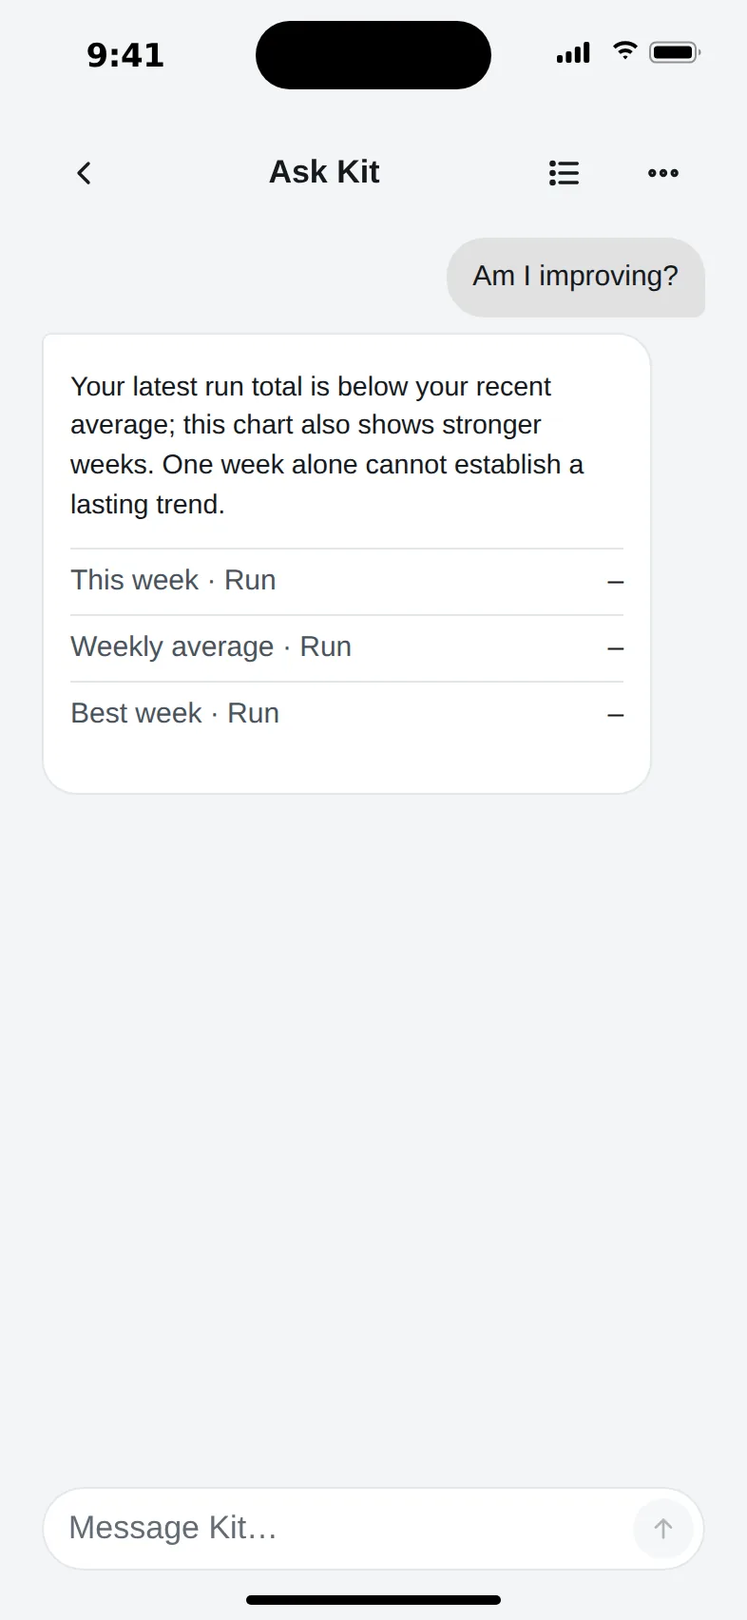
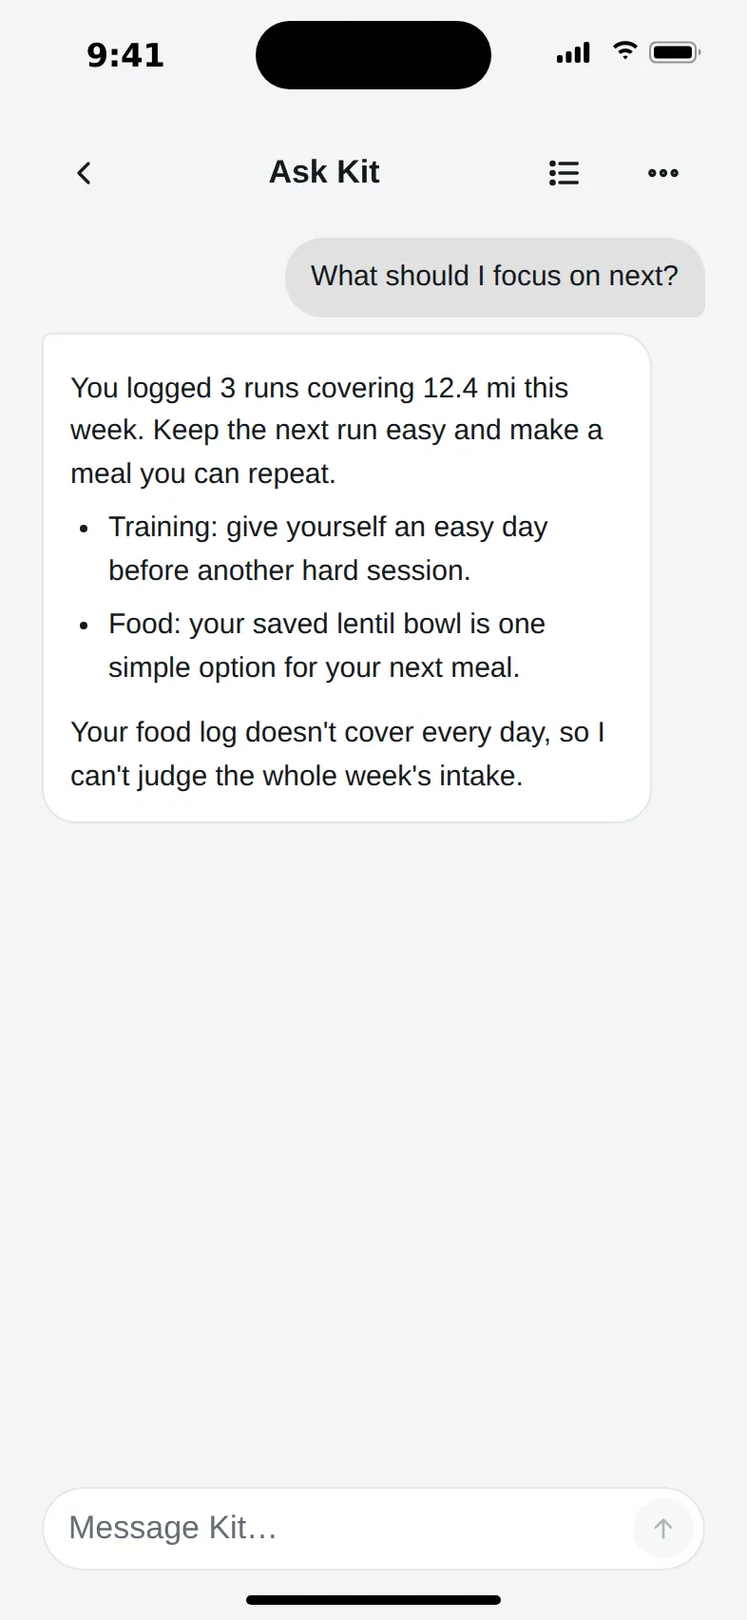
Introduce Meet Kit with current app conversation captures

Changed region(s): [[0.0916, 0.2177, 0.8244, 0.4977], [0.3969, 0.1555, 0.7634, 0.1866], [0.7939, 0.1555, 0.8855, 0.1866]]

diff --git a/site/index.html b/site/index.html
@@ -23,7 +23,7 @@
 <link rel="preconnect" href="https://fonts.gstatic.com" crossorigin>
 <link rel="stylesheet" href="https://fonts.googleapis.com/css2?family=Figtree:wght@400;500;600&family=JetBrains+Mono:wght@400;500&display=swap">
 <link rel="stylesheet" href="assets/theme.css?v=9">
-<link rel="stylesheet" href="assets/site.css?v=38">
+<link rel="stylesheet" href="assets/site.css?v=39">
 </head>
 <body class="website-tour home-page">
 <a class="skip-link" href="#main">Skip to content</a>
@@ -59,7 +59,21 @@
 <article class="home-proof-card" id="home-food"><div class="home-proof-copy"><h3>Log a meal in a sentence.</h3><p>Tell Kit what you ate. Review the matched foods, portions and estimate, then choose Add to log.</p></div><div class="home-proof-phone"><div class="phone-frame" data-app-capture="kit-food-review" role="group" aria-label="Fictional Kit chat review showing two foods, editable portions, an estimate and Add to log"><picture><source srcset="assets/shots/dark-home-food-review.webp" media="(prefers-color-scheme: dark)"><img src="assets/shots/light-home-food-review.webp" alt="Fictional Kit food chat review with Toast and Butter, portion controls, a 55 kcal summary and Add to log." width="786" height="1704" loading="lazy"></picture></div></div></article>
 <article class="home-proof-card" id="home-activity"><div class="home-proof-copy"><span class="eyebrow">Training</span><h3>Every run, ride and lift, with the details.</h3><p>See a route and splits for a run or ride, or set-by-set history and records for a lift.</p></div><div class="home-proof-phone"><div class="phone-frame"><picture><source srcset="assets/shots/dark-activity-detail-1x.webp 1x, assets/shots/dark-activity-detail.webp 2x" media="(prefers-color-scheme: dark)"><img src="assets/shots/light-activity-detail.webp" srcset="assets/shots/light-activity-detail-1x.webp 1x, assets/shots/light-activity-detail.webp 2x" alt="Fictional Activity detail showing a route map, run stats and splits." width="786" height="1704" loading="lazy"></picture></div></div></article>
 </div></div></section>
-<section class="kit-week-demo" id="kit-week-demo" aria-labelledby="progress-title"><div class="wrap kit-week-grid"><div class="kit-week-copy"><span class="eyebrow">Kit insights</span><h2 id="progress-title">Ask Kit about your week.</h2><p>Ask one question about your training week.</p></div><div class="kit-week-visual" role="group" aria-label="Scripted Kit weekly insight shown inside an iPhone screen"><div class="phone-frame phone-frame--demo phone-frame--kit-week phone-frame--kit-insight" data-demo="kit-insight" data-demo-state="ready"><div class="phone-screen kit-phone-viewport"><div class="kit-phone-canvas" aria-hidden="true"><div class="kit-phone-screen"><div class="kit-phone-status"><span>9:41</span><span class="kit-phone-status-icons" aria-hidden="true"><svg viewBox="0 0 22 14"><path d="M2 12V9m5 3V7m5 5V5m5 7V2"/></svg><svg viewBox="0 0 18 14"><path d="M2 5.5a10 10 0 0 1 14 0M5 8.5a6 6 0 0 1 8 0M8 11.5a2 2 0 0 1 2 0"/></svg><svg viewBox="0 0 26 14"><rect x="1" y="1" width="21" height="12" rx="3"/><path d="M24 5v4"/><rect x="3" y="3" width="15" height="8" rx="1.5"/></svg></span></div><div class="kit-phone-content"><p class="kit-week-question" data-week-question data-full-text="Am I improving?"></p><span class="kit-week-typing thread-typing" data-week-typing aria-hidden="true"><span></span><span></span><span></span></span><div class="kit-week-answer" aria-hidden="true"><p data-week-answer data-full-text="Yes, mostly: your completed-week running trend is up over the last 8 weeks. This week is still in progress at 4.8 mi."></p><svg class="kit-week-chart" data-week-chart viewBox="0 0 320 100" role="img" aria-label="Completed weekly run totals rise across 8 weeks; the dashed line marks the 20.6 mi average. This week is in progress at 4.8 mi."><line class="kit-week-chart-average" x1="8" y1="51" x2="312" y2="51"/><path class="kit-week-chart-line" d="M8 82 C23 78 34 72 50 70 S76 66 92 63 S118 59 134 58 S160 54 176 53 S202 47 218 43 S244 28 260 21 S292 19 312 18"/><g class="kit-week-chart-dots"><circle cx="8" cy="82" r="3"/><circle cx="50" cy="70" r="3"/><circle cx="92" cy="63" r="3"/><circle cx="134" cy="58" r="3"/><circle cx="176" cy="53" r="3"/><circle cx="218" cy="43" r="3"/><circle cx="260" cy="21" r="3"/><circle cx="312" cy="18" r="3"/></g></svg><div class="kit-week-facts" data-week-facts><div><span>This week · Run</span><strong><b data-week-this>4.8</b> mi</strong></div><div><span>Weekly average · Run</span><strong><b data-week-average>20.6</b> mi</strong></div><div><span>Best week · Run</span><strong><b data-week-best>27.9</b> mi</strong></div></div></div></div><div class="kit-week-composer"><span>Message Kit…</span><b aria-hidden="true">↑</b></div></div></div></div></div></section>
+<section class="home-kit-coach" id="meet-kit" aria-labelledby="kit-title">
+<div class="wrap home-kit-coach-grid">
+<div class="home-kit-coach-copy"><span class="eyebrow">Meet Kit</span>
+<h2 id="kit-title">Meet Kit, the coach that knows your training and your food.</h2>
+<p class="home-kit-description">Ask in your own words. Kit reads your workouts and meals, answers in plain language, and tells you when it doesn't have enough to say. Any change it suggests waits for your OK.</p>
+<ul class="home-kit-questions" aria-label="Example questions for Kit">
+<li>Review my week</li><li>What should I focus on next?</li><li>Suggest a meal from my saved foods.</li>
+</ul>
+<p class="home-kit-small-print">For adults 18+. Kit is not medical advice.</p></div>
+<figure class="home-kit-coach-visual">
+<div class="phone-frame" data-app-capture="kit-coach-answer"><picture>
+<source media="(prefers-color-scheme: dark)" srcset="assets/shots/dark-kit-insight-progress-1x.webp 1x, assets/shots/dark-kit-insight-progress.webp 2x">
+<img src="assets/shots/light-kit-insight-progress.webp" srcset="assets/shots/light-kit-insight-progress-1x.webp 1x, assets/shots/light-kit-insight-progress.webp 2x" width="786" height="1704" loading="lazy" alt="Ask Kit in the current app: a fictional answer about easy runs and meals, with plain paragraphs and a short list.">
+</picture></div><figcaption>Current app screen · fictional example answer</figcaption>
+</figure></div></section>
 <section class="home-badges" aria-labelledby="home-badges-title"><div class="wrap home-feature-split"><div class="home-feature-copy"><span class="eyebrow">Achievements</span><h2 id="home-badges-title">Badges you earn step by step.</h2><p>Explore achievement tracks for running, riding, walking/hiking, swimming and lifting. See what you've earned and what's next.</p></div><div class="home-feature-phone home-badges-visuals"><figure class="home-badge-preview home-badge-preview--profile"><div class="phone-frame"><picture><source srcset="assets/shots/1319-profile-dark.webp" media="(prefers-color-scheme: dark)"><img src="assets/shots/1319-profile-light.webp" alt="Fictional Profile screen showing the entry to Achievements." width="786" height="1704" loading="lazy"></picture></div><figcaption>Open Achievements from your profile</figcaption></figure><figure class="home-badge-preview home-badge-preview--achievements"><div class="phone-frame"><picture><source srcset="assets/shots/dark-achievements-1x.webp 1x, assets/shots/dark-achievements.webp 2x" media="(prefers-color-scheme: dark)"><img src="assets/shots/light-achievements.webp" srcset="assets/shots/light-achievements-1x.webp 1x, assets/shots/light-achievements.webp 2x" alt="Fictional Achievements screen showing earned levels and the next distance goal." width="786" height="1704" loading="lazy"></picture></div><figcaption>Run, ride, walk/hike, swim and lift.</figcaption></figure></div></div></section>
 
 <section class="home-sharing" aria-labelledby="home-sharing-title"><div class="wrap"><div><span class="eyebrow">Sharing</span><h2 id="home-sharing-title">Choose what to share.</h2></div><div><p>Choose who can see each activity, and hide where a route starts and ends when you share it.</p><a class="home-sharing-link" href="privacy">Read the privacy policy <span aria-hidden="true">→</span></a></div></div></section>

diff --git a/site/templates/index.html b/site/templates/index.html
@@ -23,7 +23,7 @@
 <link rel="preconnect" href="https://fonts.gstatic.com" crossorigin>
 <link rel="stylesheet" href="https://fonts.googleapis.com/css2?family=Figtree:wght@400;500;600&family=JetBrains+Mono:wght@400;500&display=swap">
 <link rel="stylesheet" href="assets/theme.css?v=9">
-<link rel="stylesheet" href="assets/site.css?v=38">
+<link rel="stylesheet" href="assets/site.css?v=39">
 </head>
 <body class="website-tour home-page">
 <a class="skip-link" href="#main">Skip to content</a>
@@ -59,7 +59,21 @@
 <article class="home-proof-card" id="home-food"><div class="home-proof-copy"><h3>{{copy:home-nutrition-title}}</h3><p>{{copy:home-nutrition-description}}</p></div><div class="home-proof-phone"><div class="phone-frame" data-app-capture="kit-food-review" role="group" aria-label="Fictional Kit chat review showing two foods, editable portions, an estimate and Add to log"><picture><source srcset="assets/shots/dark-home-food-review.webp" media="(prefers-color-scheme: dark)"><img src="assets/shots/light-home-food-review.webp" alt="Fictional Kit food chat review with Toast and Butter, portion controls, a 55 kcal summary and Add to log." width="786" height="1704" loading="lazy"></picture></div></div></article>
 <article class="home-proof-card" id="home-activity"><div class="home-proof-copy"><span class="eyebrow">{{copy:home-activity-kicker}}</span><h3>{{copy:home-activity-title}}</h3><p>{{copy:home-activity-description}}</p></div><div class="home-proof-phone"><div class="phone-frame"><picture><source srcset="assets/shots/dark-activity-detail-1x.webp 1x, assets/shots/dark-activity-detail.webp 2x" media="(prefers-color-scheme: dark)"><img src="assets/shots/light-activity-detail.webp" srcset="assets/shots/light-activity-detail-1x.webp 1x, assets/shots/light-activity-detail.webp 2x" alt="Fictional Activity detail showing a route map, run stats and splits." width="786" height="1704" loading="lazy"></picture></div></div></article>
 </div></div></section>
-<section class="kit-week-demo" id="kit-week-demo" aria-labelledby="progress-title"><div class="wrap kit-week-grid"><div class="kit-week-copy"><span class="eyebrow">{{copy:home-kit-insight-kicker}}</span><h2 id="progress-title">{{copy:home-kit-insight-title}}</h2><p>{{copy:home-kit-insight-description}}</p></div><div class="kit-week-visual" role="group" aria-label="Scripted Kit weekly insight shown inside an iPhone screen"><div class="phone-frame phone-frame--demo phone-frame--kit-week phone-frame--kit-insight" data-demo="kit-insight" data-demo-state="ready"><div class="phone-screen kit-phone-viewport"><div class="kit-phone-canvas" aria-hidden="true"><div class="kit-phone-screen"><div class="kit-phone-status"><span>9:41</span><span class="kit-phone-status-icons" aria-hidden="true"><svg viewBox="0 0 22 14"><path d="M2 12V9m5 3V7m5 5V5m5 7V2"/></svg><svg viewBox="0 0 18 14"><path d="M2 5.5a10 10 0 0 1 14 0M5 8.5a6 6 0 0 1 8 0M8 11.5a2 2 0 0 1 2 0"/></svg><svg viewBox="0 0 26 14"><rect x="1" y="1" width="21" height="12" rx="3"/><path d="M24 5v4"/><rect x="3" y="3" width="15" height="8" rx="1.5"/></svg></span></div><div class="kit-phone-content"><p class="kit-week-question" data-week-question data-full-text="{{copy:home-kit-question}}"></p><span class="kit-week-typing thread-typing" data-week-typing aria-hidden="true"><span></span><span></span><span></span></span><div class="kit-week-answer" aria-hidden="true"><p data-week-answer data-full-text="{{copy:home-kit-answer}}"></p><svg class="kit-week-chart" data-week-chart viewBox="0 0 320 100" role="img" aria-label="Completed weekly run totals rise across 8 weeks; the dashed line marks the 20.6 mi average. This week is in progress at 4.8 mi."><line class="kit-week-chart-average" x1="8" y1="51" x2="312" y2="51"/><path class="kit-week-chart-line" d="M8 82 C23 78 34 72 50 70 S76 66 92 63 S118 59 134 58 S160 54 176 53 S202 47 218 43 S244 28 260 21 S292 19 312 18"/><g class="kit-week-chart-dots"><circle cx="8" cy="82" r="3"/><circle cx="50" cy="70" r="3"/><circle cx="92" cy="63" r="3"/><circle cx="134" cy="58" r="3"/><circle cx="176" cy="53" r="3"/><circle cx="218" cy="43" r="3"/><circle cx="260" cy="21" r="3"/><circle cx="312" cy="18" r="3"/></g></svg><div class="kit-week-facts" data-week-facts><div><span>This week · Run</span><strong><b data-week-this>4.8</b> mi</strong></div><div><span>Weekly average · Run</span><strong><b data-week-average>20.6</b> mi</strong></div><div><span>Best week · Run</span><strong><b data-week-best>27.9</b> mi</strong></div></div></div></div><div class="kit-week-composer"><span>Message Kit…</span><b aria-hidden="true">↑</b></div></div></div></div></div></section>
+<section class="home-kit-coach" id="meet-kit" aria-labelledby="kit-title">
+<div class="wrap home-kit-coach-grid">
+<div class="home-kit-coach-copy"><span class="eyebrow">{{copy:home-kit-insight-kicker}}</span>
+<h2 id="kit-title">{{copy:home-kit-insight-title}}</h2>
+<p class="home-kit-description">{{copy:home-kit-insight-description}}</p>
+<ul class="home-kit-questions" aria-label="Example questions for Kit">
+<li>{{copy:home-kit-question-week}}</li><li>{{copy:home-kit-question-focus}}</li><li>{{copy:home-kit-question-meal}}</li>
+</ul>
+<p class="home-kit-small-print">{{copy:home-kit-small-print}}</p></div>
+<figure class="home-kit-coach-visual">
+<div class="phone-frame" data-app-capture="kit-coach-answer"><picture>
+<source media="(prefers-color-scheme: dark)" srcset="assets/shots/dark-kit-insight-progress-1x.webp 1x, assets/shots/dark-kit-insight-progress.webp 2x">
+<img src="assets/shots/light-kit-insight-progress.webp" srcset="assets/shots/light-kit-insight-progress-1x.webp 1x, assets/shots/light-kit-insight-progress.webp 2x" width="786" height="1704" loading="lazy" alt="Ask Kit in the current app: a fictional answer about easy runs and meals, with plain paragraphs and a short list.">
+</picture></div><figcaption>{{copy:home-kit-example-caption}}</figcaption>
+</figure></div></section>
 <section class="home-badges" aria-labelledby="home-badges-title"><div class="wrap home-feature-split"><div class="home-feature-copy"><span class="eyebrow">{{copy:home-badges-kicker}}</span><h2 id="home-badges-title">{{copy:home-badges-title}}</h2><p>{{copy:home-badges-description}}</p></div><div class="home-feature-phone home-badges-visuals"><figure class="home-badge-preview home-badge-preview--profile"><div class="phone-frame"><picture><source srcset="assets/shots/1319-profile-dark.webp" media="(prefers-color-scheme: dark)"><img src="assets/shots/1319-profile-light.webp" alt="Fictional Profile screen showing the entry to Achievements." width="786" height="1704" loading="lazy"></picture></div><figcaption>Open Achievements from your profile</figcaption></figure><figure class="home-badge-preview home-badge-preview--achievements"><div class="phone-frame"><picture><source srcset="assets/shots/dark-achievements-1x.webp 1x, assets/shots/dark-achievements.webp 2x" media="(prefers-color-scheme: dark)"><img src="assets/shots/light-achievements.webp" srcset="assets/shots/light-achievements-1x.webp 1x, assets/shots/light-achievements.webp 2x" alt="Fictional Achievements screen showing earned levels and the next distance goal." width="786" height="1704" loading="lazy"></picture></div><figcaption>Run, ride, walk/hike, swim and lift.</figcaption></figure></div></div></section>
 
 <section class="home-sharing" aria-labelledby="home-sharing-title"><div class="wrap"><div><span class="eyebrow">{{copy:home-sharing-kicker}}</span><h2 id="home-sharing-title">{{copy:home-sharing-title}}</h2></div><div><p>{{copy:home-sharing-description}}</p><a class="home-sharing-link" href="privacy">{{copy:home-sharing-action}} <span aria-hidden="true">→</span></a></div></div></section>

diff --git a/dev/screenshots/take.js b/dev/screenshots/take.js
@@ -354,6 +354,9 @@ async function closeCaptureContext(context) {
       const kitInsightFixture = name === 'kit-insight-progress';
       if (kitInsightFixture) await page.route(kitInsightRoute, async route => {
         const request = route.request(), url = new URL(request.url());
+        // Fixture only: exercise today's renderer without history or any provider call.
+        if (request.method() === 'GET' && url.pathname === '/api/coach/conversation/threads')
+          return route.fulfill({json: {enabled: false}});
         if (request.method() === 'POST' && url.pathname === '/api/coach/conversation/visits') {
           const visit_id = request.postDataJSON().visit_id;
           return route.fulfill({json: {generation: '00000000-0000-4000-8000-000000001049', visit_id, ready: true}});
@@ -362,10 +365,13 @@ async function closeCaptureContext(context) {
           const visit_id = url.searchParams.get('visit_id');
           return route.fulfill({json: {generation: '00000000-0000-4000-8000-000000001049', visit_id, before: null, ready: true,
             messages: [{id: 1, client_id: '1049-progress-insight', generation: '00000000-0000-4000-8000-000000001049', visit_id,
-              question: 'Am I improving?', context: {screen: 'progress'}, state: 'answered', error: null,
-              answer: {interpretation: 'Your latest run total is below your recent average; this chart also shows stronger weeks. One week alone cannot establish a lasting trend.',
-                facts: [{label: 'This week · Run', value: '10.8 mi'}, {label: 'Weekly average · Run', value: '20.6 mi'}, {label: 'Best week · Run', value: '27.9 mi'}],
-                limitations: ['Only recorded workouts are included.'], actions: []}, created: '2026-11-13T14:00:00Z'}]}});
+              question: 'What should I focus on next?', context: {screen: 'progress'}, state: 'answered', error: null,
+              answer: {interpretation: "Keep the next run easy and make a meal you can repeat.",
+                answer_blocks: [
+                  {kind: 'paragraph', text: 'You logged 3 runs covering 12.4 mi this week. Keep the next run easy and make a meal you can repeat.'},
+                  {kind: 'list', items: ['Training: give yourself an easy day before another hard session.', 'Food: your saved lentil bowl is one simple option for your next meal.']},
+                  {kind: 'paragraph', text: "Your food log doesn't cover every day, so I can't judge the whole week's intake."}
+                ], facts: [], actions: [], follow_ups: []}, created: '2026-11-13T14:00:00Z'}]}});
         }
         if (request.method() === 'POST' && url.pathname.endsWith('/end')) return route.fulfill({json: {ok: true}});
         return route.fulfill({status: 404, json: {detail: 'Unneeded screenshot fixture request.'}});
@@ -596,7 +602,8 @@ async function closeCaptureContext(context) {
         await page.getByText('Vegetables and rice', {exact: true}).waitFor({state: 'visible'});
       }
       if (kitInsightFixture) {
-        await page.locator('#kit-messages .kit-answer').filter({hasText: 'Your latest run total'}).waitFor({state: 'visible'});
+        await page.locator('#kit-messages .kit-answer').filter({hasText: 'You logged 3 runs'}).waitFor({state: 'visible'});
+        if (await page.locator('.kit-answer-blocks p').count() !== 2 || await page.locator('.kit-answer-blocks li').count() !== 2) throw Error('Kit example must use the real paragraph/list renderer.');
         if ((await page.locator('#kit-status').innerText()).trim()) throw Error('Kit insight screenshot should not show a stale-chat warning.');
       }
       if(name==='activity'||name==='activity-detail'){

diff --git a/site/assets/site.css b/site/assets/site.css
@@ -1153,3 +1153,25 @@ header.top .signup { display:flex;align-items:center; }
 @media (max-width:560px) {
   .home-page .home-proof-grid #home-food.home-proof-card { flex-basis:calc(100% + 40px); }
 }
+
+/* Meet Kit: copy beside a whole, unmodified app capture. */
+.home-page .home-kit-coach{padding:64px 0;background:var(--paper)}
+.home-kit-coach-grid{display:grid;grid-template-columns:minmax(0,1.4fr) minmax(280px,1fr);align-items:center;gap:64px}
+.home-kit-coach-copy{max-width:610px}
+.home-page .home-kit-coach h2{font-size:clamp(32px,3.5vw,48px);line-height:1.12;letter-spacing:-.035em;margin:12px 0 24px}
+.home-kit-description{font-size:18px;line-height:1.65;margin:0 0 28px}
+.home-kit-questions{list-style:none;padding:0;margin:0 0 28px;font-size:17px;line-height:1.5}
+.home-kit-questions li{padding:8px 0}
+.home-kit-questions li::before{content:'“';color:var(--brand);margin-right:2px}
+.home-kit-questions li::after{content:'”';color:var(--brand);margin-left:2px}
+.home-kit-small-print,.home-kit-coach-visual figcaption{font-size:13px;line-height:1.5;color:var(--ink3)}
+.home-kit-coach-visual{margin:0;text-align:center}
+.home-page .home-kit-coach .phone-frame{width:100%;max-width:336px;margin:0 auto}
+.home-kit-coach-visual figcaption{margin:16px 0 0}
+@media(max-width:700px){
+ .home-page .home-kit-coach{padding:48px 0}
+ .home-kit-coach-grid{grid-template-columns:1fr;gap:28px}
+ .home-kit-description{font-size:17px}
+ .home-kit-questions{font-size:16px;margin-bottom:20px}
+ .home-page .home-kit-coach .phone-frame{width:100%;max-width:320px}
+}

diff --git a/dev/tests/test_website_content.py b/dev/tests/test_website_content.py
@@ -29,22 +29,22 @@ class CopyTests(unittest.TestCase):
   self.assertIn('assets/tour/challenge-detail-light.webp',home)
   self.assertIn('assets/tour/challenge-detail-dark.webp',home)
   self.assertNotRegex(home.lower(),r'private\s+by\s+default|free\s+during\s+beta')
- def test_kit_week_demo_copy_and_social_tagline_are_positive(self):
+ def test_kit_coach_uses_live_features_and_real_app_capture(self):
   home=(content.ROOT/'site/index.html').read_text()
-  self.assertIn('Yes, mostly: your completed-week running trend is up over the last 8 weeks. This week is still in progress at 4.8 mi.',home)
-  self.assertIn('This week · Run',home)
-  self.assertIn('Weekly average · Run',home)
-  self.assertIn('Best week · Run',home)
-  self.assertIn('data-week-this>4.8</b>',home)
-  self.assertIn('data-week-average>20.6</b>',home)
-  self.assertIn('data-week-best>27.9</b>',home)
-  self.assertIn('Completed weekly run totals rise across 8 weeks',home)
-  self.assertNotIn('data-week-this>0.0</b>',home)
-  self.assertIn('data-week-chart',home)
-  self.assertIn('kit-week-chart-line',home)
-  self.assertIn('kit-phone-status-icons',home)
-  self.assertNotIn('What Kit could check',home)
-  self.assertNotIn('One week alone cannot establish a lasting trend.',home)
+  for text in ["Meet Kit, the coach that knows your training and your food.",
+               "Any change it suggests waits for your OK.", "Review my week",
+               "What should I focus on next?", "Suggest a meal from my saved foods.",
+               "For adults 18+. Kit is not medical advice.", "Current app screen · fictional example answer"]:
+   self.assertIn(text,home)
+  self.assertIn('data-app-capture="kit-coach-answer"',home)
+  for theme in ['light','dark']:
+   for density in ['','-1x']:
+    asset=f'{theme}-kit-insight-progress{density}.webp'
+    self.assertIn(asset,home)
+    self.assertTrue((content.ROOT/'site/assets/shots'/asset).is_file())
+  section=home.split('id="meet-kit"',1)[1].split('</section>',1)[0]
+  self.assertNotRegex(section.lower(),r'saved chats|memory|chart|data-demo')
+  self.assertNotIn('data-week-chart',home)
   self.assertNotIn('Confirm lunch',home)
   self.assertNotIn('Lunch logged',home)
   self.assertIn('assets/shots/light-home-food-review.webp',home)

diff --git a/dev/screenshots/README.md b/dev/screenshots/README.md
@@ -6,7 +6,7 @@ The website Challenges, feed and profile screenshots use six small Gemini-genera
 
 The #1319 PR1 review captures are `site/assets/shots/1319-*` (working map, confirmed Kit meal and Profile) and `site/assets/tour/profile-achievements-*`. Activity detail and confirmed meal are captured as full 393×852 viewports (786×1704 raw PNGs); the confirmed-meal app shell is 540 CSS px high so its sentence, result and suggestion sit together. Published phone screens retain the full 393×852 viewport. The compact confirmed-meal control crop remains a compact card and is not framed or described as a phone. The Profile capture stays at 393×852. Challenge entry/detail captures are also full 393×852 app viewports. They use fictional records and can be reused by the follow-up website layout PR.
 
-Start an isolated disposable Compose project with `compose.standin.yml`, load the fixtures, then run `take.js <png-directory> <base-url>` and `to_webp.py <png-directory> site/assets/shots`. Set the operator-approved map variables explicitly: the capture script blocks the public OSM tile endpoint. The website workflow reads only the published public `/api/map-config` through `map_env.py`, with no account or private runtime access. For localhost captures, its range-request relay uses the published app origin and adapts response CORS to localhost; archive bytes and rendering stay unchanged. No production CORS setting is changed. A visible map-load failure stops capture/publication. The Food route’s three-food chat card is prepared by `food_chat_fixture.py`; Home’s two-food review frame is captured from the app using `home_food_review_fixture.py` with fictional 55 kcal stand-in values; food estimates, product lookup and prepared Kit reviews use stand-ins, with no live AI or food-provider request. The screenshots show actual implemented browser controls and fictional records; they do not demonstrate model accuracy.
+Start an isolated disposable Compose project with `compose.standin.yml`, load the fixtures, then run `take.js <png-directory> <base-url>` and `to_webp.py <png-directory> site/assets/shots`. Set the operator-approved map variables explicitly: the capture script blocks the public OSM tile endpoint. The website workflow reads only the published public `/api/map-config` through `map_env.py`, with no account or private runtime access. For localhost captures, its range-request relay uses the published app origin and adapts response CORS to localhost; archive bytes and rendering stay unchanged. No production CORS setting is changed. A visible map-load failure stops capture/publication. The Food route’s three-food chat card is prepared by `food_chat_fixture.py`; Home’s two-food review frame is captured from the app using `home_food_review_fixture.py` with fictional 55 kcal stand-in values; food estimates, product lookup and prepared Kit reviews use stand-ins, with no live AI or food-provider request. The `kit-insight-progress` scene now captures the current Ask Kit paragraph/list renderer, using a checked-response stand-in and disabled saved-history capability. Its whole light/dark captures supply Meet Kit; it does not show charts or demonstrate generated answer quality. The screenshots show actual implemented browser controls and fictional records; they do not demonstrate model accuracy.
 
 Browser-captured website phone PNGs are whole 393×852 viewports at 2× (786×1704); the challenge tour also uses complete screens. Homepage Activity detail, Me/Profile and Achievements shots instead come from the fictional Store fixture in the iOS Simulator, in light and dark. The iPhone 16 capture is resized to 786×1704 for 2× WebP, then downsampled to 393×852 for 1×. `manifest.json` records each Simulator device, runtime, theme, fixture and source revision so the Apple emoji rendering can be traced. The compact confirmed-meal card remains a non-phone crop; open pages still refresh each srcset candidate while preserving its density descriptor.
 

diff --git a/site/content/index.md b/site/content/index.md
@@ -51,23 +51,35 @@ Every run, ride and lift, with the details.
 See a route and splits for a run or ride, or set-by-set history and records for a lift.
 ## home-kit-insight-kicker
 
-Kit insights
+Meet Kit
 
 ## home-kit-insight-title
 
-Ask Kit about your week.
+Meet Kit, the coach that knows your training and your food.
 
 ## home-kit-insight-description
 
-Ask one question about your training week.
+Ask in your own words. Kit reads your workouts and meals, answers in plain language, and tells you when it doesn't have enough to say. Any change it suggests waits for your OK.
 
-## home-kit-question
+## home-kit-question-week
 
-Am I improving?
+Review my week
 
-## home-kit-answer
+## home-kit-question-focus
 
-Yes, mostly: your completed-week running trend is up over the last 8 weeks. This week is still in progress at 4.8 mi.
+What should I focus on next?
+
+## home-kit-question-meal
+
+Suggest a meal from my saved foods.
+
+## home-kit-example-caption
+
+Current app screen · fictional example answer
+
+## home-kit-small-print
+
+For adults 18+. Kit is not medical advice.
 
 ## home-badges-kicker
 
